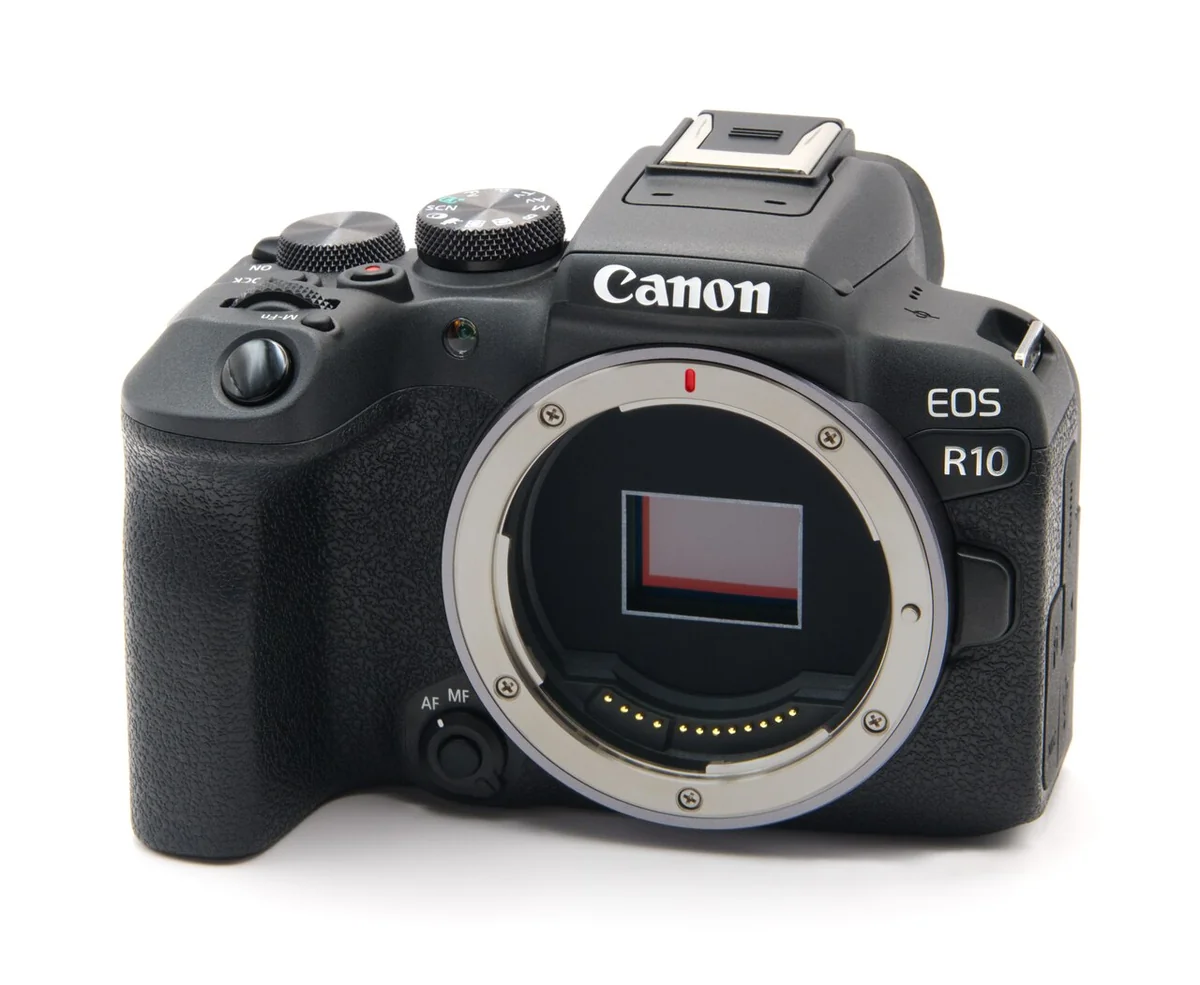
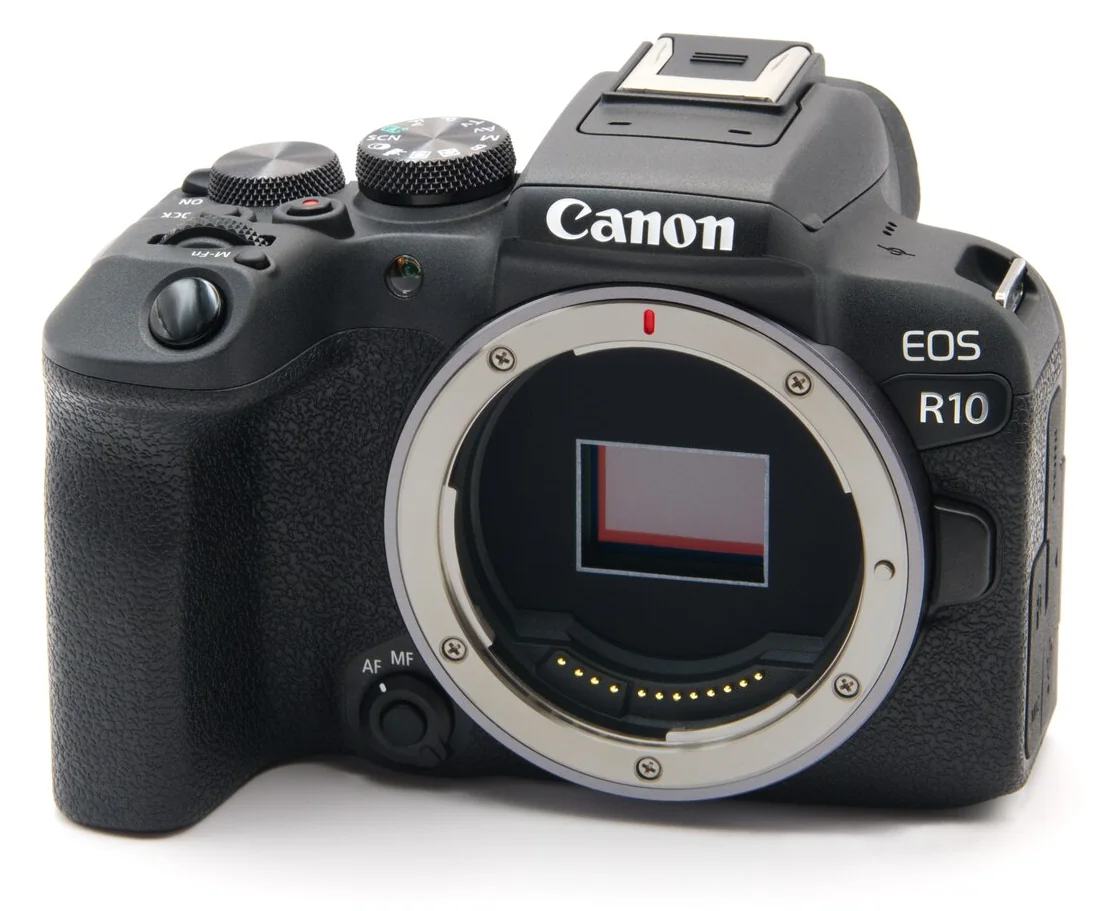
Gear stills scaled to each other + About copy; v1.3.2
- Gear: the two stills are now scaled to each other by real-world size (camera
  ~123 mm vs lens ~265 mm) — the lens fills its column, the camera shows ~46% as
  wide, with matched heights. build.py trims each gear shot tight to its subject
  first (the square lens shot was mostly empty padding, which made it look
  small). Gear grid capped at 470px so the two entries sit closer together.
- About: reworded the intro per Ben.

diff --git a/styles.css b/styles.css
@@ -241,8 +241,11 @@ html, body {
 .gear-grid {
   display: grid;
   grid-template-columns: repeat(2, 1fr);
-  gap: 24px;
-  margin-bottom: 24px;
+  gap: 16px;
+  margin: 0 auto 24px;
+  max-width: 470px;          /* pull the two entries in toward each other
+                                (wide enough that the Sigma caption stays 2 lines
+                                so both stills top-align) */
   align-items: start;
 }
 
@@ -266,12 +269,14 @@ html, body {
 /* Gear product still under a device heading. Normalised by HEIGHT (not width)
    so the landscape camera body and the square lens sit balanced and centred,
    with the edges feathered so each melts into the white page. */
+/* The two product stills are scaled to each other by real-world size (camera
+   ~123 mm vs lens ~265 mm): the lens fills its column, the camera shows ~46% as
+   wide. The build trims each shot tight to its subject so the proportions read
+   true. Edges are feathered so each melts into the white page. */
 .gear-photo {
   display: block;
-  width: auto;
+  width: 100%;
   height: auto;
-  max-width: 100%;
-  max-height: 220px;
   margin: 0 auto;
   -webkit-mask-image:
     linear-gradient(to right,  transparent 0, #000 3%, #000 97%, transparent 100%),
@@ -282,6 +287,7 @@ html, body {
     linear-gradient(to bottom, transparent 0, #000 3%, #000 97%, transparent 100%);
   mask-composite: intersect;
 }
+.gear-col--r10 .gear-photo { width: 46%; }
 
 .about-link {
   color: var(--fg);
@@ -647,13 +653,14 @@ html, body {
   /* Collapse the two-column gear grid to a single stack on narrow screens. */
   .gear-grid {
     grid-template-columns: 1fr;
-    gap: 20px;
-    margin-bottom: 14px;   /* tighter gap to the divider below the gear stack */
+    gap: 18px;
+    margin: 0 auto 14px;   /* tighter gap to the divider below the gear stack */
+    max-width: 300px;      /* keep the stacked stills modest + centred */
   }
 
-  /* Stacked: no 2-line title reserve needed; give the stills a touch more size. */
+  /* Stacked: no 2-line title reserve needed. The lens (full column) over the
+     smaller camera keeps the same to-scale proportion as desktop. */
   .gear-device { min-height: 0; margin-bottom: 6px; }
-  .gear-photo { max-height: 240px; }
 
   /* GEAR / CONTACT labels: match the gear-title size and sit closer to the
      divider above them. */

diff --git a/index.html b/index.html
@@ -16,7 +16,7 @@
   <meta property="og:description" content="Wildlife and nature photography by Benjamin d'Entremont." />
   <meta property="og:url" content="https://bendentremont.com/" />
   <meta name="twitter:card" content="summary" />
-  <link rel="stylesheet" href="styles.css?v=1.3.1" />
+  <link rel="stylesheet" href="styles.css?v=1.3.2" />
   <!-- Self-hosted DM Sans (see @font-face in styles.css). Preload the primary
        latin file so text paints in the real face without a Google round-trip. -->
   <link rel="preload" href="fonts/dmsans-latin.woff2" as="font" type="font/woff2" crossorigin />
@@ -61,11 +61,9 @@
         <hr class="section-divider" />
 
         <div class="about-block">
-          <p class="about-text">I'm Ben.</p>
+          <p class="about-text">I'm Ben. Welcome to my catalogue!</p>
           <p class="about-text">
-            Welcome to my catalogue! Photography is a favourite hobby of mine, and this
-            site allows me to showcase my best work in the highest quality, and sometimes
-            in creative ways.
+            This site allows me to showcase some of my favourite work in its highest quality.
           </p>
           <p class="about-text">
             The media on this site is original and protected. Please don't reproduce it without permission.
@@ -104,7 +102,7 @@
 
     <!-- Site-wide copyright footer. -->
     <footer class="site-footer">
-      <span class="footer-version">v1.3.1</span>
+      <span class="footer-version">v1.3.2</span>
       <small>&copy; <span id="footer-year">2026</span> Benjamin d'Entremont. All rights reserved.</small>
     </footer>
   </div>
@@ -127,7 +125,7 @@
   </div>
 
   <!-- Generated by build.py — defines window.PHOTOSITE_MANIFEST. -->
-  <script src="manifest.js?v=1.3.1"></script>
-  <script src="script.js?v=1.3.1"></script>
+  <script src="manifest.js?v=1.3.2"></script>
+  <script src="script.js?v=1.3.2"></script>
 </body>
 </html>

diff --git a/build.py b/build.py
@@ -25,7 +25,7 @@ from datetime import datetime
 from pathlib import Path
 
 try:
-    from PIL import Image, ExifTags, ImageOps, ImageDraw, ImageFont
+    from PIL import Image, ExifTags, ImageOps, ImageDraw, ImageFont, ImageChops
 except ImportError:
     sys.stderr.write(
         "Pillow is required. Install with:\n    pip install Pillow\n"
@@ -236,6 +236,26 @@ def _resize_long_edge(img: Image.Image, long_edge: int) -> Image.Image:
         new_h = long_edge
         new_w = round(w * long_edge / h)
     return img.resize((new_w, new_h), Image.LANCZOS)
+
+
+def _trim_white_border(img: Image.Image, thresh: int = 12,
+                       margin: float = 0.04) -> Image.Image:
+    """Crop the near-white border off a product shot so the subject fills the
+    frame — lets the gear stills be scaled to each other cleanly (a square shot
+    of a long lens is mostly empty space otherwise). Keeps a small uniform
+    margin so the edge-feather mask fades blank space, not the product."""
+    rgb  = img.convert("RGB")
+    bg   = Image.new("RGB", rgb.size, (255, 255, 255))
+    mask = ImageChops.difference(rgb, bg).convert("L").point(
+        lambda p: 255 if p > thresh else 0)
+    bbox = mask.getbbox()
+    if not bbox:
+        return img
+    sw, sh = bbox[2] - bbox[0], bbox[3] - bbox[1]
+    mx, my = int(sw * margin), int(sh * margin)
+    W, H   = img.size
+    return img.crop((max(0, bbox[0] - mx), max(0, bbox[1] - my),
+                     min(W, bbox[2] + mx), min(H, bbox[3] + my)))
 
 
 def _save_image(img: Image.Image, path: Path, quality: int,
@@ -819,6 +839,7 @@ def main() -> int:
                 continue
             try:
                 gi = ImageOps.exif_transpose(Image.open(g))
+                gi = _trim_white_border(gi)        # tight crop so stills scale cleanly
                 gi = _resize_long_edge(gi, GEAR_LONG_EDGE)
                 _save_image(gi, gear_out / f"{g.stem}.{IMAGE_EXT}", GEAR_QUALITY)
                 print(f"  [gear] {g.stem}.{IMAGE_EXT}")
